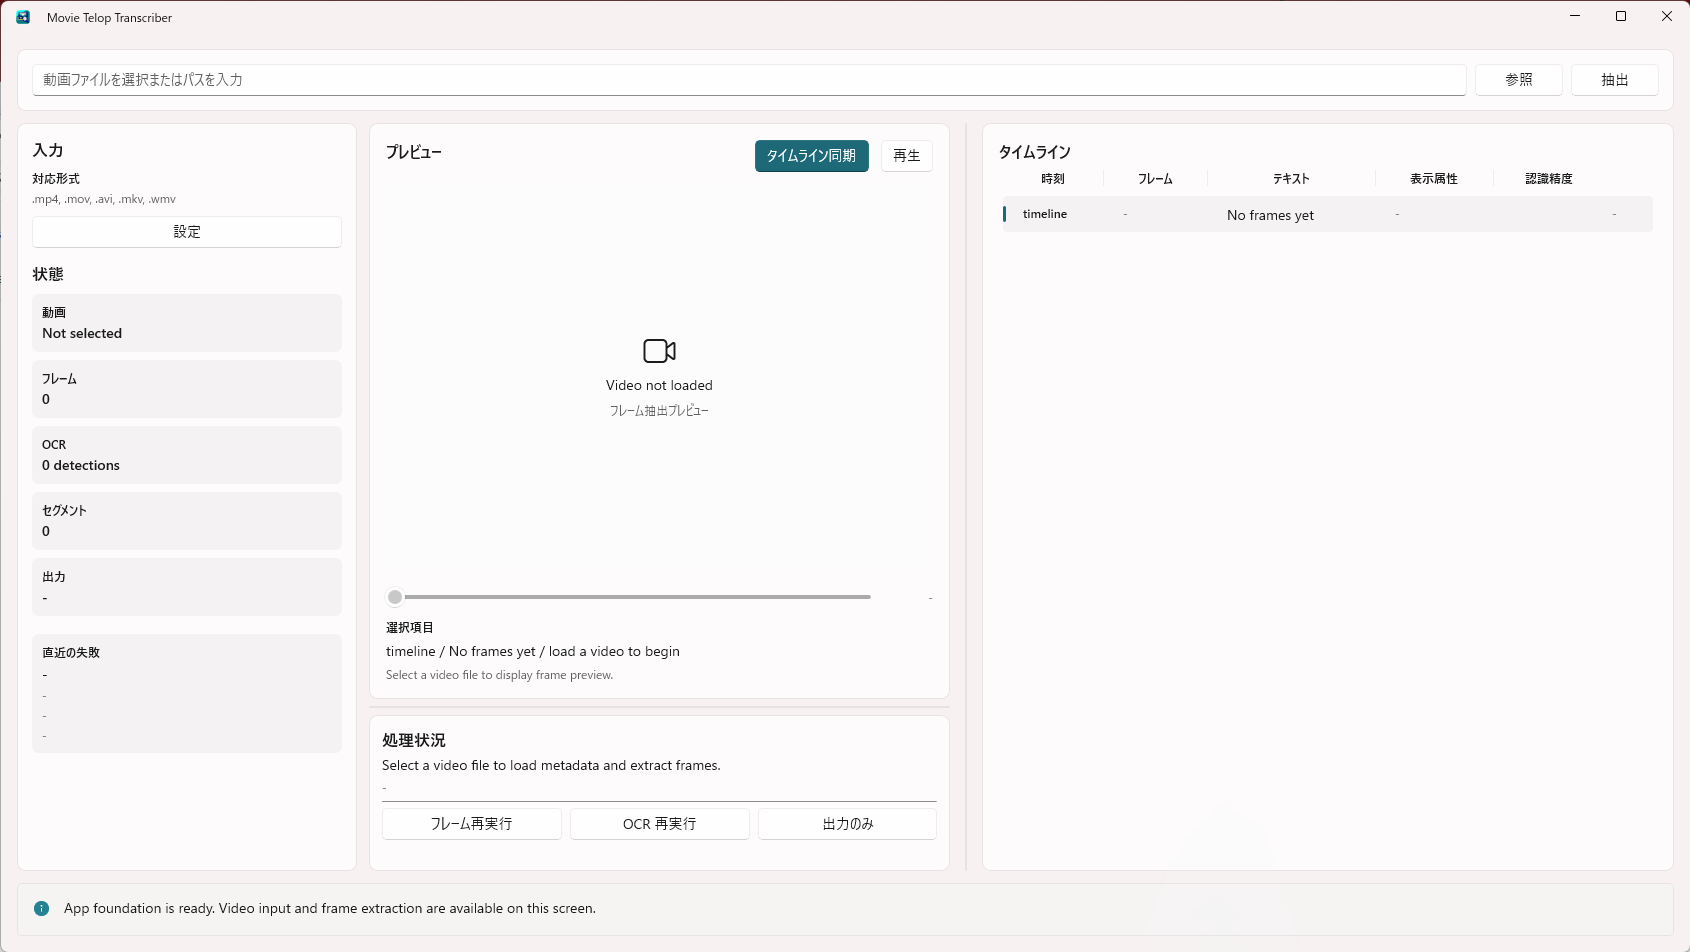
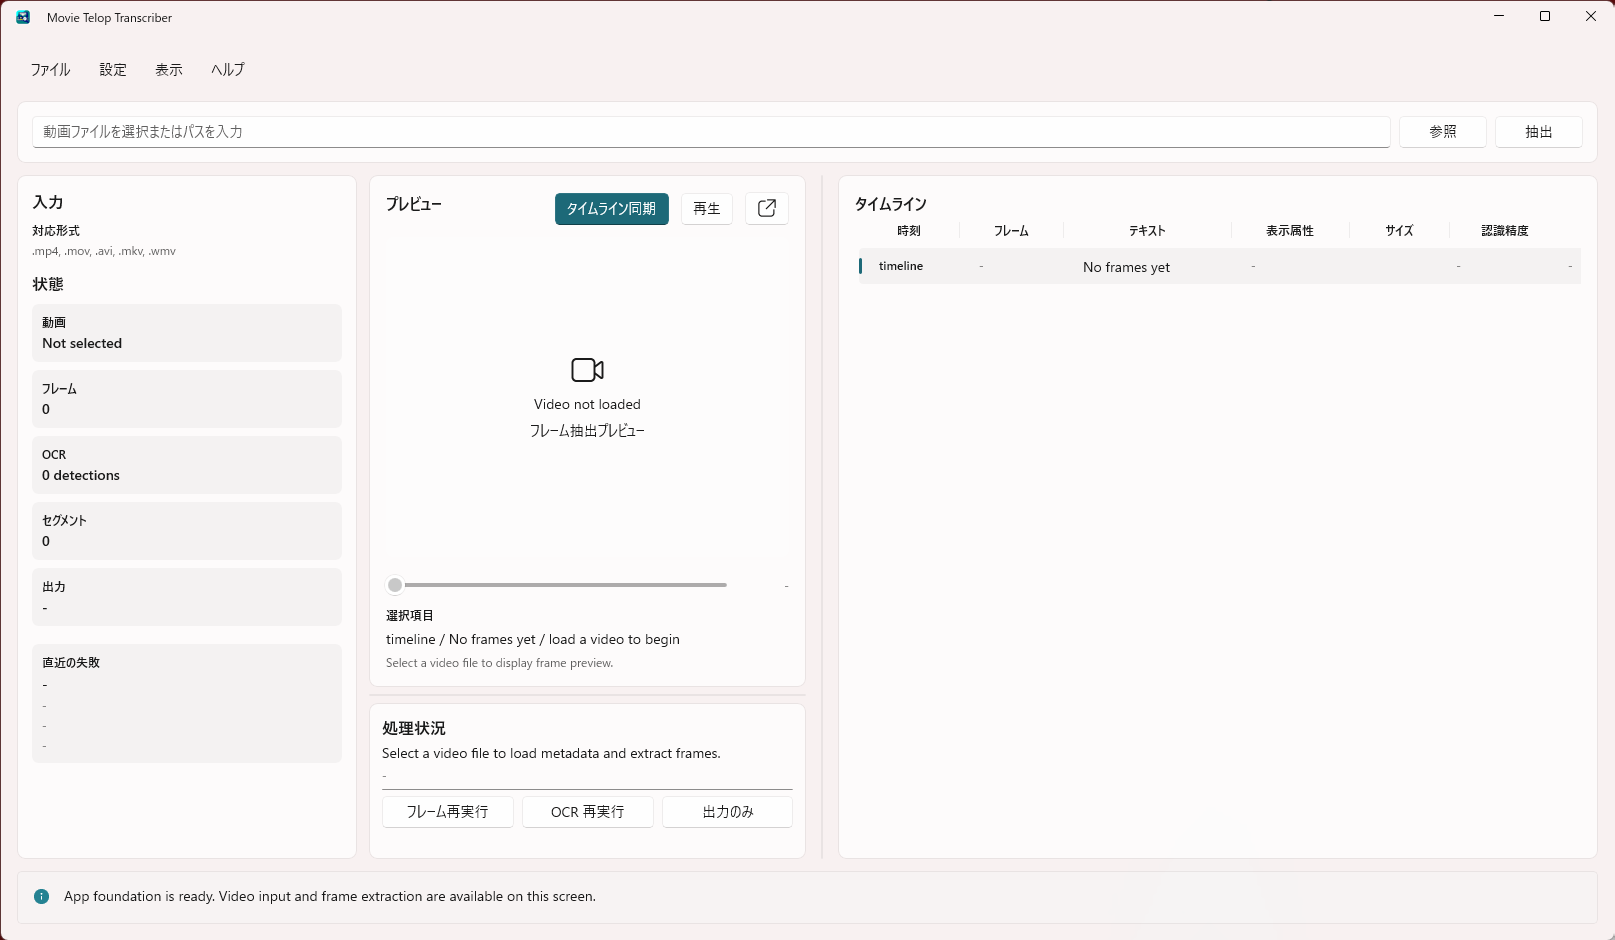
Add user guide and installer screenshots

diff --git a/docs/16_利用ガイド.md b/docs/16_利用ガイド.md
@@ -1,0 +1,133 @@
+# 利用ガイド
+
+## 1. 目的
+この文書は、`movie-telop-transcriber` を初めて使う利用者向けに、主な機能、画面の見方、向いている使い方を整理したガイドである。
+
+インストールや起動手順は [12_導入手順書.md](12_導入手順書.md) を参照し、この文書では「何ができるか」「どの場面でどう使うか」に重点を置く。
+
+## 2. このアプリでできること
+- 動画から一定間隔でフレームを抽出し、テロップ候補を OCR で読み取る。
+- 認識した文字列を、動画時刻とフレーム番号に紐づけて確認する。
+- テキスト、表示属性、推定サイズ、認識精度をタイムラインで見比べる。
+- プレビュー上で対象テロップの位置を確認しながら、タイムラインと同期して見直す。
+- 誤認識したテキストを編集し、SRT / VTT / ASS / CSV / JSON へ出力する。
+- `.mtproj` プロジェクトファイルとして保存し、後日同じ状態から再確認する。
+
+## 3. 向いているユースケース
+### 3.1 字幕作成のたたき台を作る
+動画からテロップを抽出し、`segments.srt` や `segments.vtt` を作って、あとで人手で整える使い方に向いている。
+
+向いている場面:
+- 配信アーカイブから字幕原稿の初期データを作る
+- 社内動画の字幕化前に、表示テロップを一覧化する
+- 同じ形式の動画をまとめて処理し、字幕作成の下準備をする
+
+### 3.2 動画内テロップの確認表を作る
+`segments.csv` や `frames.csv` を出力し、「どの時刻に何が出ていたか」を表形式で確認したい場合に向いている。
+
+向いている場面:
+- 動画編集後のテロップ抜け漏れ確認
+- 放送や配信前の表記監査
+- 時刻付きでレビュー依頼を出したいときの証跡作成
+
+### 3.3 見た目属性も含めて点検する
+表示属性、サイズ、認識精度を見ながら、どのテロップが不安定かを絞り込みたい場合に向いている。
+
+向いている場面:
+- 小さい文字や背景と重なる文字の検出漏れ確認
+- 色付きテロップや縁取り付き文字の認識状態確認
+- OCR 設定を調整しながら再実行して比較する作業
+
+### 3.4 途中状態を保存して後日再開する
+抽出済みフレームや OCR 結果を `.mtproj` へ保存し、次回は同じ解析結果を再表示したい場合に向いている。
+
+向いている場面:
+- 長尺動画を数日に分けて確認する
+- 別担当者へ確認作業を引き継ぐ
+- 一度出した結果を、設定変更後と比較する
+
+## 4. 基本画面の見方
+### 4.1 起動直後のメイン画面
+![起動直後のメイン画面](images/app-main-empty.png)
+
+主な役割:
+- 上部: 入力動画の選択と抽出開始
+- 左ペイン: 入力動画、フレーム数、OCR 件数、出力先、直近失敗の確認
+- 中央ペイン: プレビュー、再生、タイムライン同期、処理状況
+- 右ペイン: タイムライン一覧
+
+最初に行うこと:
+1. 上部の入力欄へ動画を指定する
+2. 必要なら設定画面で抽出間隔や OCR 条件を調整する
+3. `抽出` を押して解析を開始する
+
+### 4.2 設定画面
+![設定画面](images/app-settings.png)
+
+主な役割:
+- 基本設定: 言語、抽出間隔、出力ディレクトリ
+- 検出設定: 前処理、コントラスト、検出候補の確からしさ、最小文字サイズ
+- PaddleOCR 設定: `device` と worker 数
+
+使い分けの目安:
+- 左上の時計表示など小さい不要文字を無視したい: `最小文字サイズ` を上げる
+- 検出漏れが多い: 抽出間隔を短くする、前処理を有効にする
+- GPU 環境で試したい: `PaddleOCR device` を `GPU` に切り替える
+
+### 4.3 OCR 実行中の画面
+![OCR 実行中のメイン画面](images/app-ocr-running.png)
+
+確認ポイント:
+- 処理状況ペインに、現在の進行率、経過時間、残り時間が表示される
+- 左ペインの OCR 件数とフレーム数が増えていく
+- エラーが起きた場合は `直近の失敗` に原因が出る
+
+長尺動画では、途中で `OCR 再実行` や `出力のみ` を使うより、まず 1 回最後まで通してから結果確認へ進むほうが分かりやすい。
+
+### 4.4 解析結果の確認画面
+![字幕検出後の画面](images/app-analysis-result.png)
+
+確認できる内容:
+- 右ペインのタイムラインで、時刻、テキスト、表示属性、サイズ、認識精度を一覧できる
+- 行を選ぶと、中央プレビューで該当フレームを表示できる
+- タイムライン同期や再生を使って、表示位置と前後関係を確認できる
+- 誤認識があれば編集し、`出力のみ` で成果物を再生成できる
+
+## 5. おすすめの使い方
+### 5.1 まずは短い動画で 1 回確認する
+最初から長尺動画を流すより、10 秒から 30 秒程度の短い動画で設定と出力内容を確認するほうが安全である。
+
+確認項目:
+- 目的のテロップが拾えているか
+- 不要な表示物まで拾っていないか
+- `segments.srt` や `segments.csv` が想定用途に合っているか
+
+### 5.2 用途に合わせて出力形式を使い分ける
+| 出力ファイル | 向いている用途 |
+| --- | --- |
+| `segments.srt` | 字幕編集ソフトへ渡す |
+| `segments.vtt` | Web 動画向け字幕確認 |
+| `segments.ass` | ASS 対応環境での確認用 |
+| `segments.csv` | テロップ一覧の確認、レビュー共有 |
+| `frames.csv` | フレーム単位の詳細確認 |
+| `segments.json` | 他ツール連携、再加工 |
+
+### 5.3 結果確認に時間がかかる場合は `.mtproj` を使う
+解析後に `.mtproj` として保存しておくと、次回は動画からやり直さずに同じ状態を開ける。
+
+向いている場面:
+- 修正指示を受けて翌日見直す
+- 複数人で同じ結果を確認する
+- OCR 再実行前の状態を残して比較する
+
+## 6. 利用時の注意
+- 実動画 OCR では、`ocr_engine` が `paddleocr` になっていることを確認する。
+- 背景や縁取りの影響で、色や表示属性は完全一致ではなく暫定推定になる。
+- `font_size` は実フォントサイズではなく、OCR 矩形高さベースの目安である。
+- CPU 推論では長尺動画の処理に時間がかかる。まず短い動画で設定確認してから本番動画へ進む。
+
+## 7. 関連文書
+- 導入と起動: [12_導入手順書.md](12_導入手順書.md)
+- 設定ファイル: [14_設定ファイル仕様.md](14_設定ファイル仕様.md)
+- プロジェクト保存形式: [15_プロジェクトファイル仕様.md](15_プロジェクトファイル仕様.md)
+- 既知制約: [08_既知不具合と制約一覧.md](08_既知不具合と制約一覧.md)

diff --git a/README.md b/README.md
@@ -15,6 +15,8 @@
 - `segments.json`、`segments.csv`、`frames.csv`、`segments.srt`、`segments.vtt`、`segments.ass` を出力する。
 - 処理ログと中間成果物を run 単位で保存し、後から確認できるようにする。
 
+機能説明と使い方の具体例は [docs/16_利用ガイド.md](docs/16_利用ガイド.md) を参照してください。
+
 ### 動作環境
 - Windows x64
 - .NET 10 Desktop Runtime x64
@@ -32,8 +34,12 @@
 
 `Install-MovieTelopTranscriber.cmd` は内部で PowerShell インストーラを呼び出し、実行したディレクトリ配下に `MovieTelopTranscriber` フォルダを作成します。その中へアプリ本体、PaddleOCR 用 Python 仮想環境、Python package、OCR モデル、起動設定ファイルをまとめて配置します。
 
+![配布 zip を展開した直後の構成](docs/images/install-package-root.png)
+
 配布 zip を展開した直下にも `app` フォルダは含まれますが、こちらは導入用同梱物です。通常起動は必ず `MovieTelopTranscriber\app\MovieTelopTranscriber.App.exe` またはスタートメニューの `Movie Telop Transcriber` を使います。
 また、インストーラを実行したディレクトリには、導入後のアプリ本体を指す `Movie Telop Transcriber.lnk` も作成します。
+
+![インストール完了後に作成される起動ショートカット](docs/images/install-launch-shortcut.png)
 
 PowerShell から直接実行する場合は、配布物を展開したフォルダで次を使います。
 
@@ -71,11 +77,20 @@ powershell -NoProfile -ExecutionPolicy Bypass `
 
 配布 zip ではなくリポジトリ内の開発用スクリプトを直接使う場合は `tools/install/Install-MovieTelopTranscriber.ps1` を実行します。手動導入やオフライン導入が必要な場合は、[docs/12_導入手順書.md](docs/12_導入手順書.md) を参照してください。
 画面イメージも [docs/12_導入手順書.md](docs/12_導入手順書.md) に掲載しています。
+利用者向けのユースケースと画面説明は [docs/16_利用ガイド.md](docs/16_利用ガイド.md) に整理しています。
 
 ### 起動方法
 インストーラを使った場合は、スタートメニューの `Movie Telop Transcriber` または `<実行ディレクトリ>\MovieTelopTranscriber\app\MovieTelopTranscriber.App.exe` をダブルクリックして起動できます。
 
 アプリは起動時に `movie-telop-transcriber.settings.json` を読み込み、PaddleOCR 用 Python、worker script、OCR 設定を解決します。PowerShell 起動スクリプトは互換用として残りますが、通常利用では不要です。
+
+起動直後の画面:
+
+![起動直後のメイン画面](docs/images/app-main-empty.png)
+
+設定画面:
+
+![設定画面](docs/images/app-settings.png)
 
 ### アンインストール
 導入先の `MovieTelopTranscriber` フォルダにある `Uninstall-MovieTelopTranscriber.cmd` を実行すると、アプリ本体、OCR runtime、起動設定、スタートメニューショートカット、インストーラ実行ディレクトリに作成した `Movie Telop Transcriber.lnk`、導入先を指すユーザー環境変数を削除します。
@@ -230,6 +245,7 @@ python tools\validation\evaluate_qcds_report.py `
 - [docs/13_リリースノート.md](docs/13_リリースノート.md)
 - [docs/14_設定ファイル仕様.md](docs/14_設定ファイル仕様.md)
 - [docs/15_プロジェクトファイル仕様.md](docs/15_プロジェクトファイル仕様.md)
+- [docs/16_利用ガイド.md](docs/16_利用ガイド.md)
 - [docs/spec/04_出力仕様.md](docs/spec/04_出力仕様.md)
 - [docs/spec/06_QCDS評価仕様.md](docs/spec/06_QCDS評価仕様.md)
 - [docs/spec/07_テロップ属性リリース範囲.md](docs/spec/07_テロップ属性リリース範囲.md)
